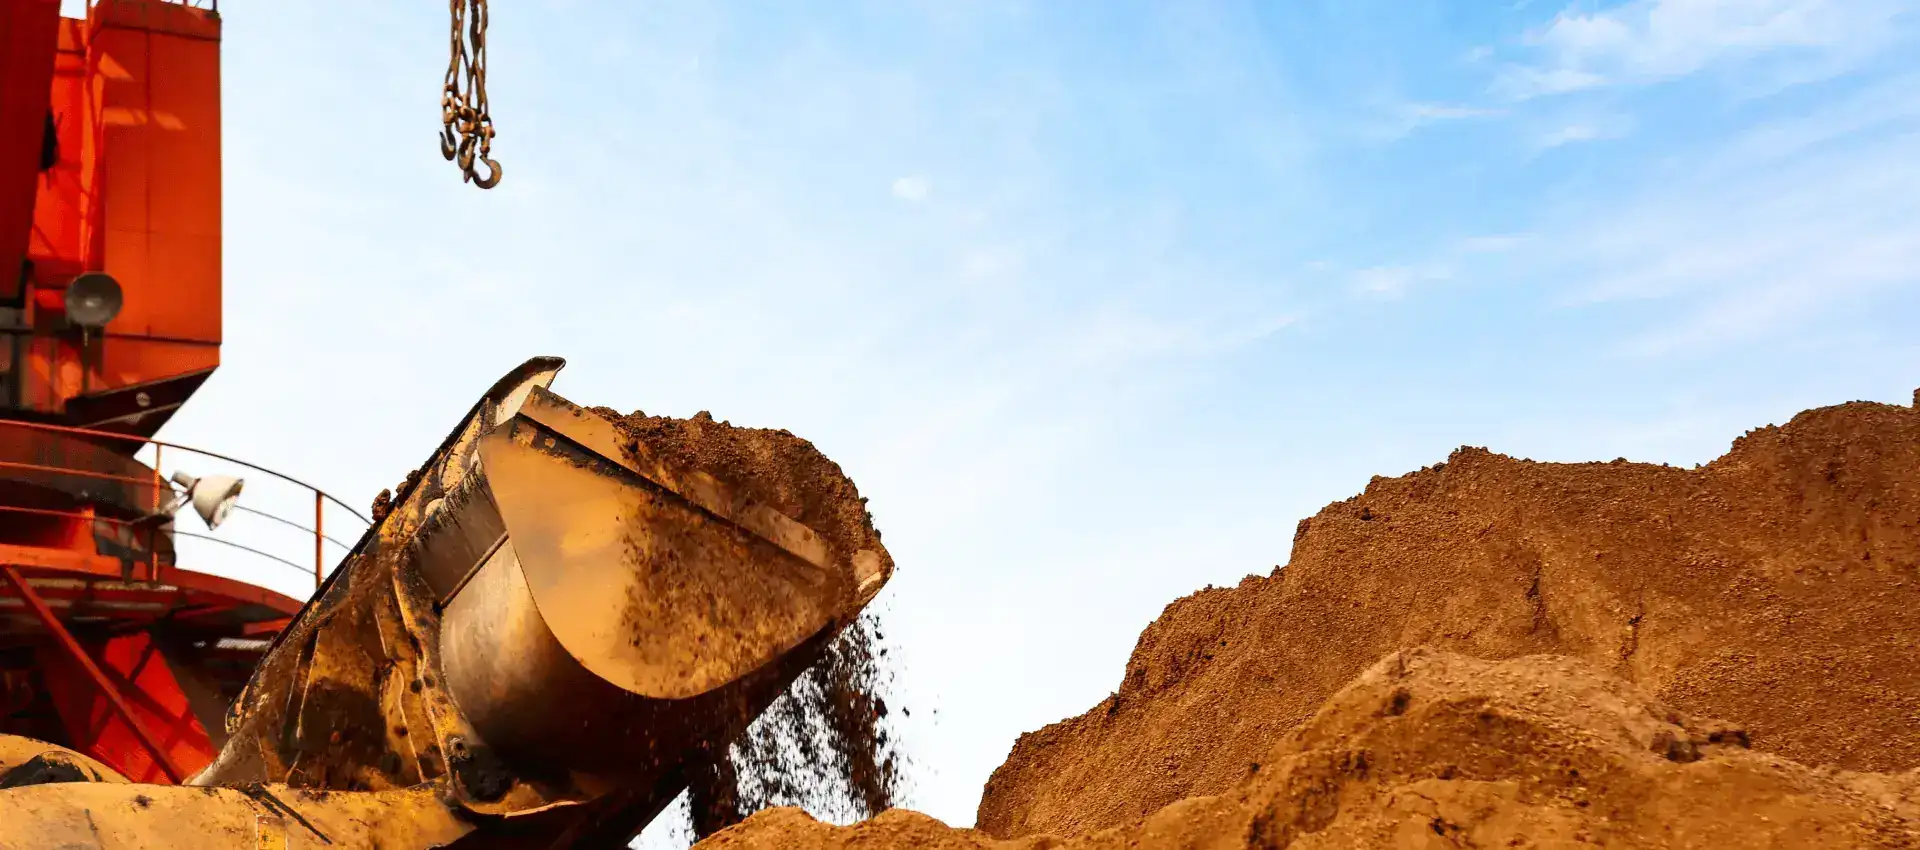
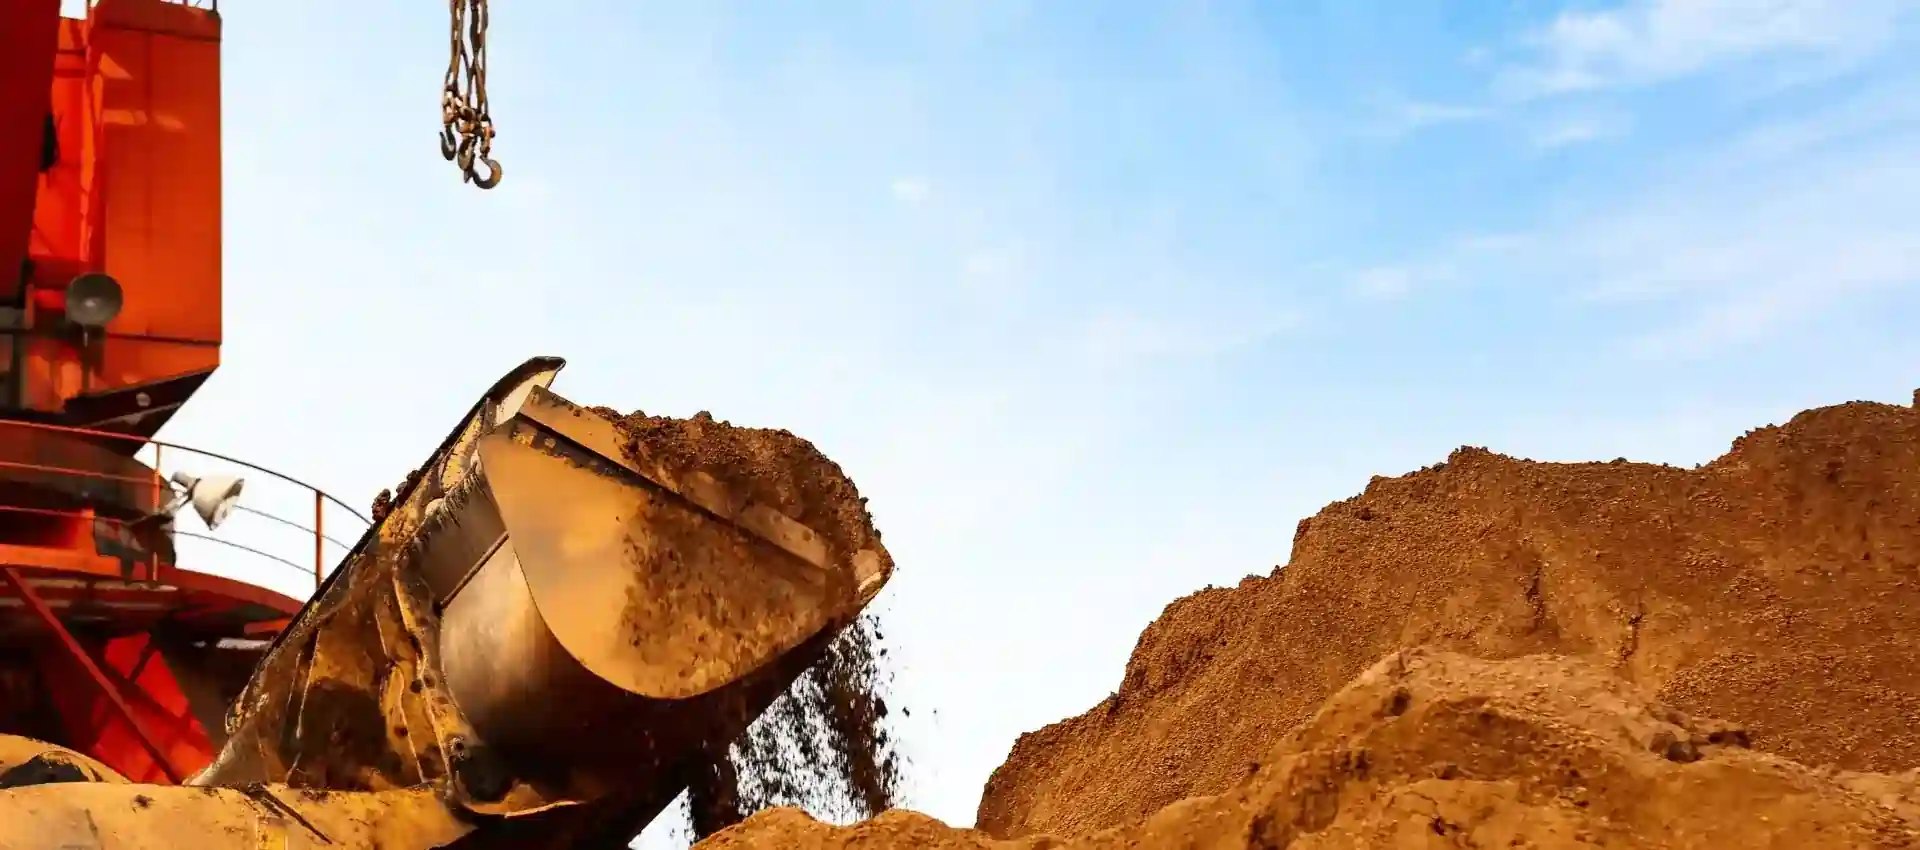
Compressed Background Images

diff --git a/index.html b/index.html
@@ -479,7 +479,7 @@
                 <div class="col-xl-6">
                     <div class="about-thumb1 mb-40 mb-lg-0"> 
                         <div class="about-img-1">
-                            <img src="assets/img/normal/about_1-1.webp" alt="img">
+                            <img loading="eager" fetchpriority="high" src="assets/img/normal/about_1-1.webp" alt="img">
                         </div>
                         <div class="about-counter-wrap jump">
                             <h3 class="about-counter-number"><span class="counter-number">200</span>+</h3>
